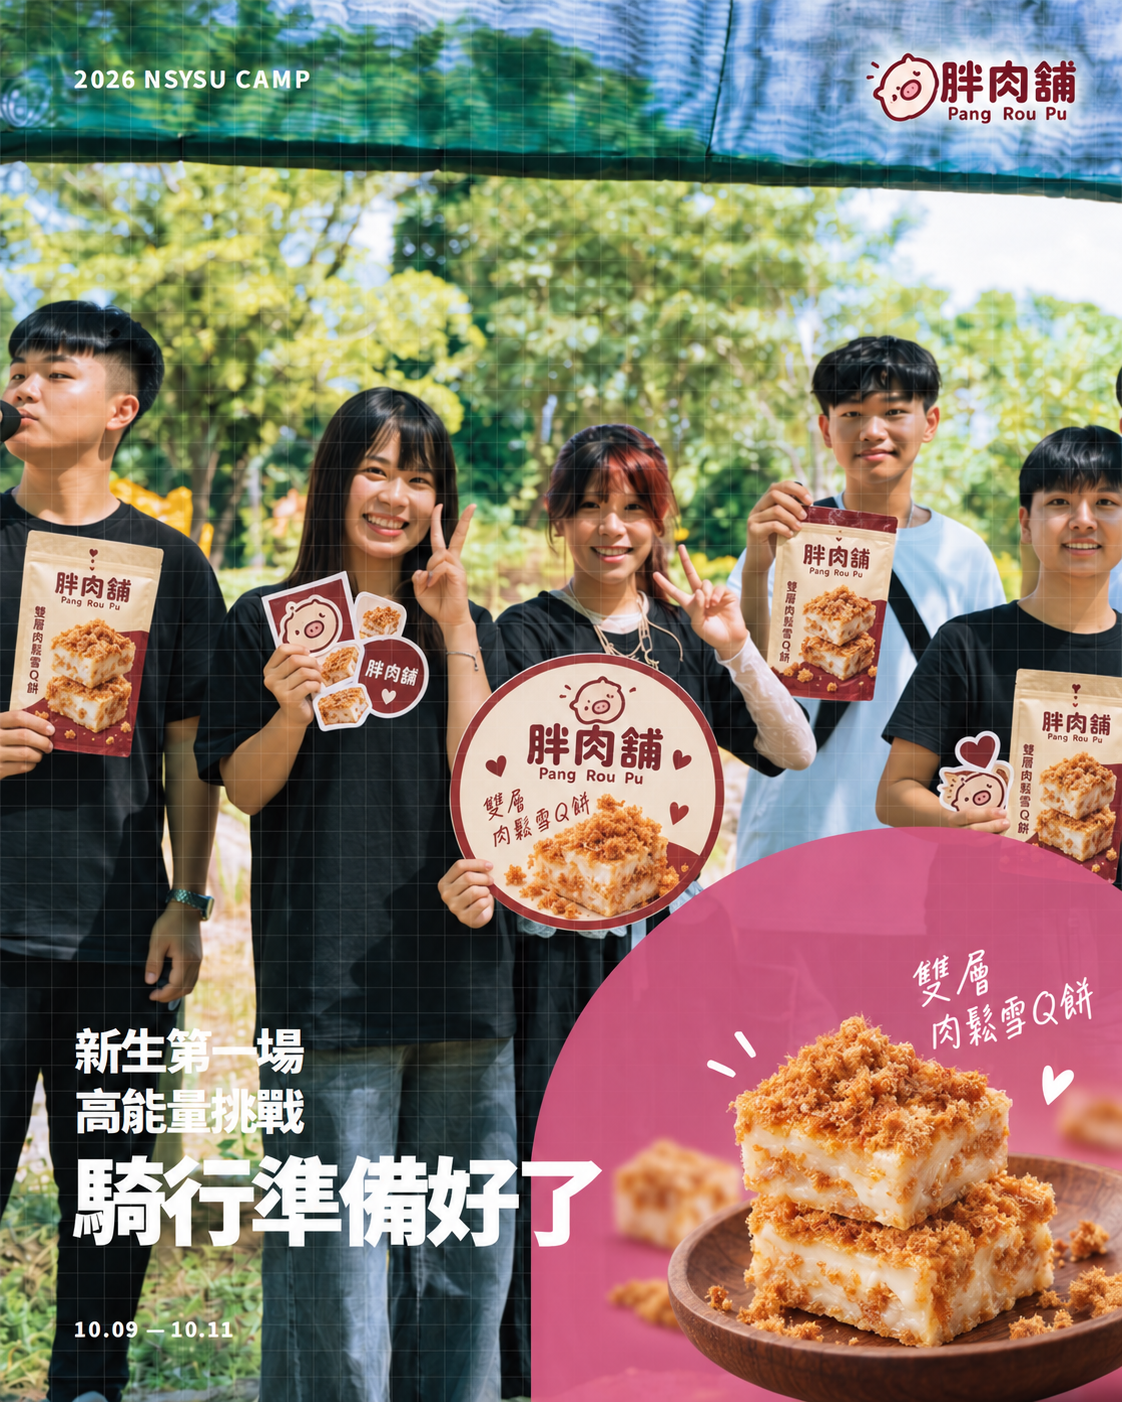
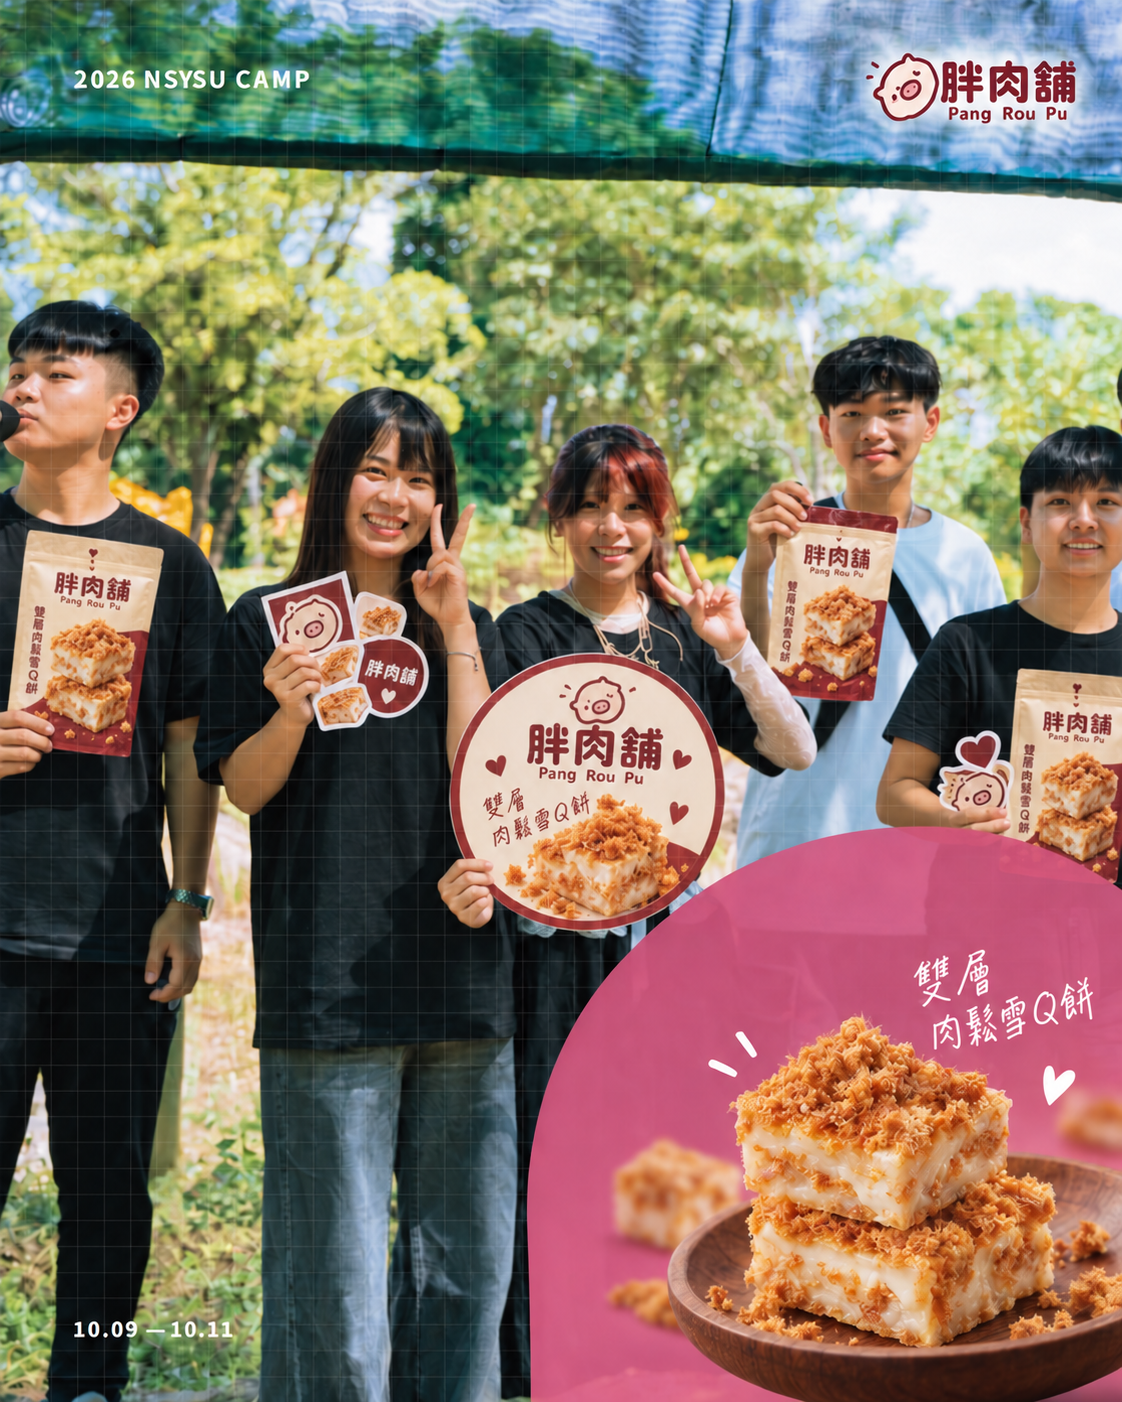
Remove headline from Pang Rou Pu post

diff --git a/pang-rou-pu/index.html b/pang-rou-pu/index.html
@@ -17,7 +17,7 @@
     <main>
       <section class="proposal-page overview is-active" id="overview" aria-labelledby="overview-title" tabindex="-1"><div class="shell overview-grid"><div class="overview-copy"><p class="eyebrow">PRIVATE PROPOSAL</p><p class="camp-line">國立中山大學・五系聯合迎新宿營</p><h1 id="overview-title"><span>把在地風味</span><em>放進相遇的時刻</em></h1><p class="opening">邀請 胖肉鋪 Pang Rou Pu 陪五系新生在迎新晚會、闖關與小隊休息的合作情境中，認識指定商品的特色與品牌故事</p><dl class="event-facts"><div><dt>時間</dt><dd>2026.10.09 — 10.11</dd></div><div><dt>地點</dt><dd>中山大學・走馬瀨・安平</dd></div><div><dt>規模</dt><dd>150 人</dd></div></dl><a class="next-link" href="#collaboration">看見合作方式 <span aria-hidden="true">↓</span></a></div><figure class="overview-photo"><img src="assets/images/sponsor-hero.webp" alt="五系聯合宿營學員戶外合照" /><figcaption>活動情境示意｜合作素材與品牌露出將於執行前送交確認</figcaption></figure></div><div class="shell proof-strip"><div><strong>五系編制</strong><span>外文、醫科、光電、機電、生科</span></div><div><strong>三天兩夜</strong><span>破冰、戶外闖關、水大地、晚會與安平探索</span></div><div><strong>完整活動計畫</strong><span>隊輔陪伴、點名、安全說明與緊急應變</span></div></div></section>
       <section class="proposal-page collaboration" id="collaboration" aria-labelledby="collaboration-title" tabindex="-1"><div class="shell hydration-grid"><figure class="hydration-photo"><img src="assets/images/sponsor-work-together.webp" alt="宿營學員團隊合照" /><figcaption>合作情境示意｜贊助品與宣傳素材將依 胖肉鋪 Pang Rou Pu 核可內容執行</figcaption></figure><div class="hydration-copy"><p class="eyebrow blue">WHY 胖肉鋪 Pang Rou Pu</p><h2 id="collaboration-title"><span>讓在地風味成為</span><span>晚會交流的記憶</span></h2><p>我們期待在活動中，介紹胖肉鋪指定商品與品牌故事。商品實際提供方式、保存條件與現場呈現皆以品牌最終確認為準。</p><a class="source-link" href="https://www.fatfoodieshop.com.tw/products/%E9%9B%99%E5%B1%A4%E8%82%89%E9%AC%86%E9%9B%AAq%E9%A4%85" target="_blank" rel="noopener noreferrer">前往胖肉鋪官方網站 ↗</a><article class="ask-card"><div class="ask-card-title"><span>核心合作邀請</span><strong>胖肉鋪<br />雙層肉鬆雪Q餅</strong><span class="ask-product-detail">80 包｜活動合作安排</span></div><p>希望邀請 胖肉鋪 Pang Rou Pu 提供 <b>80 包</b>，作為福袋、闖關補給或晚會分享情境的合作提案基礎。實際提供方式、場域安排與活動安全規範，皆以品牌最終確認為準。</p><div class="blank-product"><span>合作安排</span><b>依品牌建議的保存、提供與食用方式安排於合適活動時段</b></div><p>若 胖肉鋪 Pang Rou Pu 希望搭配貼紙、鑰匙圈或其他品牌識別素材，我們也很樂意依品牌提供的內容，規劃合適的活動互動、網站與社群露出；所有呈現方式皆會在執行前送交確認。</p><small>產品規格、適用性、提供方式、品牌素材與露出範圍，均以 胖肉鋪 Pang Rou Pu 最終確認為準。</small></article><a class="next-link" href="#proposal">看合作方案 <span aria-hidden="true">↓</span></a></div></div></section>
-      <section class="proposal-page partnership" id="proposal" aria-labelledby="proposal-title" tabindex="-1"><div class="shell partnership-heading"><p class="eyebrow">PARTNERSHIP PROPOSAL</p><h2 id="proposal-title">讓胖肉鋪的在地風味成為晚會交流的一部分</h2></div><div class="shell decision-layout"><article class="primary-request"><p>優先合作方案</p><div class="request-number"><strong>胖肉鋪<br />雙層肉鬆雪Q餅<br /><span>80 包</span></strong></div><ul><li>雙層肉鬆雪Q餅依品牌建議的保存與提供方式安排</li><li>不作為遊戲獎勵，現場亦備有飲水與基本補給</li><li>實際提供與使用方式依品牌及場地規範確認</li><li>活動網站與 Instagram 內容皆於上線前送交核可</li></ul></article></div><div class="shell deliverable-table-wrap"><table class="deliverable-table"><caption>合作內容</caption><thead><tr><th scope="col">合作項目</th><th scope="col">主辦方交付</th><th scope="col">可共同討論</th><th scope="col">回報憑據</th></tr></thead><tbody><tr><th scope="row">活動合作安排</th><td>80 包僅在依品牌建議的保存、提供與食用方式的前提下，評估安排於活動適合時段。</td><td>產品提供方式、適用性與場地規範。</td><td>執行紀錄與現場照片。</td></tr><tr><th scope="row">品牌識別素材</th><td>若品牌提供貼紙、鑰匙圈或其他宣傳素材，可規劃為互動贈品或核可後的宣傳內容。</td><td>是否提供、素材種類、數量與使用規範。</td><td>現場與素材使用紀錄。</td></tr><tr><th scope="row"><a href="https://benson0875.github.io/nsysu-camp-2026-repo/" target="_blank" rel="noopener noreferrer">活動官網 ↗</a></th><td>合作頁放置 胖肉鋪 Pang Rou Pu Logo、官方連結與核可後的簡短介紹。</td><td>Logo 檔、連結與上線前審核。</td><td>線上截圖。</td></tr><tr><th scope="row">Instagram 合作內容</th><td>活動前、現場、活動後各 1 則內容；文案與視覺均先送 胖肉鋪 Pang Rou Pu 確認。</td><td>素材、標記帳號與文案規範。</td><td>貼文連結與限時動態截圖。</td></tr><tr><th scope="row">成果結案</th><td>活動後 14 日內整理合作執行摘要與公開紀錄。</td><td>指定收件窗口與成果欄位。</td><td>結案 PDF、照片與公開連結。</td></tr></tbody></table></div><div class="shell content-preview" aria-labelledby="content-preview-title"><div class="content-preview-copy"><p class="eyebrow">CONTENT EXAMPLE</p><h3 id="content-preview-title"><span>Instagram</span><span>貼文模擬</span></h3><p>以下以三則貼文呈現合作方向：活動前建立期待、活動中記錄互動、活動後收束回憶。視覺、文案與發布時程皆會於上線前送交 胖肉鋪 Pang Rou Pu 確認。</p><div class="resource-links"><a class="resource-link" href="https://benson0875.github.io/nsysu-camp-2026-repo/" target="_blank" rel="noopener noreferrer">前往活動官網 ↗</a><a class="resource-link" href="https://www.instagram.com/2026_nsysu_camp/" target="_blank" rel="noopener noreferrer">前往 Instagram ↗</a></div></div><article class="instagram-mockup" aria-label="胖肉鋪 Pang Rou Pu Instagram 貼文模擬器"><header><img src="assets/images/logo-avatar.jpg" alt="" /><div><b>2026_nsysu_camp</b><small>中山五系聯合迎新宿營</small></div><button type="button" aria-label="更多選項">•••</button></header><div class="instagram-media"><img id="instagram-image" src="assets/instagram/01-before.png?v=20260923-pangroupu1" alt="胖肉鋪 Pang Rou Pu 合作貼文範例一" /><button class="ig-arrow previous" type="button" aria-label="上一張貼文" onclick="window.sponsorShowPost?.(-1); return false;">‹</button><button class="ig-arrow next" type="button" aria-label="下一張貼文" onclick="window.sponsorShowPost?.(1); return false;">›</button></div><div class="instagram-actions"><span aria-hidden="true">♡　◯　➤</span><div class="ig-dots" aria-label="貼文頁數"><button class="is-current" type="button" aria-label="顯示第 1 張範例" onclick="window.sponsorShowPost?.(0, true); return false;"></button><button type="button" aria-label="顯示第 2 張範例" onclick="window.sponsorShowPost?.(1, true); return false;"></button><button type="button" aria-label="顯示第 3 張範例" onclick="window.sponsorShowPost?.(2, true); return false;"></button></div><span aria-hidden="true">⌑</span></div><div class="instagram-caption"><b>2026_nsysu_camp</b><p id="instagram-caption">活動前，我們先把晚會的交流規劃好。所有合作素材均於上線前送胖肉鋪確認。</p><small id="instagram-date">貼文方向一｜活動前</small></div></article></div><div class="shell page-next"><a class="next-link" href="#execution">看活動執行與安全規劃 <span aria-hidden="true">↓</span></a></div></section>
+      <section class="proposal-page partnership" id="proposal" aria-labelledby="proposal-title" tabindex="-1"><div class="shell partnership-heading"><p class="eyebrow">PARTNERSHIP PROPOSAL</p><h2 id="proposal-title">讓胖肉鋪的在地風味成為晚會交流的一部分</h2></div><div class="shell decision-layout"><article class="primary-request"><p>優先合作方案</p><div class="request-number"><strong>胖肉鋪<br />雙層肉鬆雪Q餅<br /><span>80 包</span></strong></div><ul><li>雙層肉鬆雪Q餅依品牌建議的保存與提供方式安排</li><li>不作為遊戲獎勵，現場亦備有飲水與基本補給</li><li>實際提供與使用方式依品牌及場地規範確認</li><li>活動網站與 Instagram 內容皆於上線前送交核可</li></ul></article></div><div class="shell deliverable-table-wrap"><table class="deliverable-table"><caption>合作內容</caption><thead><tr><th scope="col">合作項目</th><th scope="col">主辦方交付</th><th scope="col">可共同討論</th><th scope="col">回報憑據</th></tr></thead><tbody><tr><th scope="row">活動合作安排</th><td>80 包僅在依品牌建議的保存、提供與食用方式的前提下，評估安排於活動適合時段。</td><td>產品提供方式、適用性與場地規範。</td><td>執行紀錄與現場照片。</td></tr><tr><th scope="row">品牌識別素材</th><td>若品牌提供貼紙、鑰匙圈或其他宣傳素材，可規劃為互動贈品或核可後的宣傳內容。</td><td>是否提供、素材種類、數量與使用規範。</td><td>現場與素材使用紀錄。</td></tr><tr><th scope="row"><a href="https://benson0875.github.io/nsysu-camp-2026-repo/" target="_blank" rel="noopener noreferrer">活動官網 ↗</a></th><td>合作頁放置 胖肉鋪 Pang Rou Pu Logo、官方連結與核可後的簡短介紹。</td><td>Logo 檔、連結與上線前審核。</td><td>線上截圖。</td></tr><tr><th scope="row">Instagram 合作內容</th><td>活動前、現場、活動後各 1 則內容；文案與視覺均先送 胖肉鋪 Pang Rou Pu 確認。</td><td>素材、標記帳號與文案規範。</td><td>貼文連結與限時動態截圖。</td></tr><tr><th scope="row">成果結案</th><td>活動後 14 日內整理合作執行摘要與公開紀錄。</td><td>指定收件窗口與成果欄位。</td><td>結案 PDF、照片與公開連結。</td></tr></tbody></table></div><div class="shell content-preview" aria-labelledby="content-preview-title"><div class="content-preview-copy"><p class="eyebrow">CONTENT EXAMPLE</p><h3 id="content-preview-title"><span>Instagram</span><span>貼文模擬</span></h3><p>以下以三則貼文呈現合作方向：活動前建立期待、活動中記錄互動、活動後收束回憶。視覺、文案與發布時程皆會於上線前送交 胖肉鋪 Pang Rou Pu 確認。</p><div class="resource-links"><a class="resource-link" href="https://benson0875.github.io/nsysu-camp-2026-repo/" target="_blank" rel="noopener noreferrer">前往活動官網 ↗</a><a class="resource-link" href="https://www.instagram.com/2026_nsysu_camp/" target="_blank" rel="noopener noreferrer">前往 Instagram ↗</a></div></div><article class="instagram-mockup" aria-label="胖肉鋪 Pang Rou Pu Instagram 貼文模擬器"><header><img src="assets/images/logo-avatar.jpg" alt="" /><div><b>2026_nsysu_camp</b><small>中山五系聯合迎新宿營</small></div><button type="button" aria-label="更多選項">•••</button></header><div class="instagram-media"><img id="instagram-image" src="assets/instagram/01-before.png?v=20260923-pangroupu2" alt="胖肉鋪 Pang Rou Pu 合作貼文範例一" /><button class="ig-arrow previous" type="button" aria-label="上一張貼文" onclick="window.sponsorShowPost?.(-1); return false;">‹</button><button class="ig-arrow next" type="button" aria-label="下一張貼文" onclick="window.sponsorShowPost?.(1); return false;">›</button></div><div class="instagram-actions"><span aria-hidden="true">♡　◯　➤</span><div class="ig-dots" aria-label="貼文頁數"><button class="is-current" type="button" aria-label="顯示第 1 張範例" onclick="window.sponsorShowPost?.(0, true); return false;"></button><button type="button" aria-label="顯示第 2 張範例" onclick="window.sponsorShowPost?.(1, true); return false;"></button><button type="button" aria-label="顯示第 3 張範例" onclick="window.sponsorShowPost?.(2, true); return false;"></button></div><span aria-hidden="true">⌑</span></div><div class="instagram-caption"><b>2026_nsysu_camp</b><p id="instagram-caption">活動前，我們先把晚會的交流規劃好。所有合作素材均於上線前送胖肉鋪確認。</p><small id="instagram-date">貼文方向一｜活動前</small></div></article></div><div class="shell page-next"><a class="next-link" href="#execution">看活動執行與安全規劃 <span aria-hidden="true">↓</span></a></div></section>
       <section class="proposal-page execution" id="execution" aria-labelledby="execution-title" tabindex="-1"><div class="shell execution-heading"><p class="eyebrow">EXECUTION &amp; SAFETY</p><h2 id="execution-title">把合作融入活動也守住安全</h2></div><div class="shell schedule-grid"><article><span>DAY 1 / 10.09</span><h3>先認識彼此</h3><p>破冰、夜教、宵夜</p><small>校園內集合與活動，隊輔帶領、點名與安全說明。</small></article><article><span>DAY 2 / 10.10</span><h3>高活動量的一天</h3><p>走馬瀨大地遊戲、水大地、晚會</p><small>抽獎與合作夥伴致謝可安排於晚會等合適環節。</small></article><article><span>DAY 3 / 10.11</span><h3>完成共同旅程</h3><p>結業、團隊活動、安平探索</p><small>戶外活動與移動前皆完成安全說明，結束後返抵中山大學。</small></article></div><div class="shell safety-grid"><article><h3>現場安全</h3><p>飲水、急救箱、點名與醫療聯絡表全程配置。各活動前完成安全說明與器材檢查。</p></article><article><h3>天候與應變</h3><p>雨勢、高溫或重大事件依校方、場地方與政府指示調整。</p></article><article><h3>合作執行原則</h3><p>抽獎與宣傳不影響活動安全與參與者隱私。所有對外品牌文字皆經確認後發布。</p></article></div><div class="shell closing-card"><div><p class="eyebrow">NEXT STEP</p><h2><span>期待與 胖肉鋪 Pang Rou Pu 一起</span><span>讓相遇留下好的記憶</span></h2></div><p>若 胖肉鋪 Pang Rou Pu 願意評估本案，我們將依品牌回覆確認贊助商品、素材與交付項目，並提供最終執行版本。</p></div></section>
   </body>
 </html>
